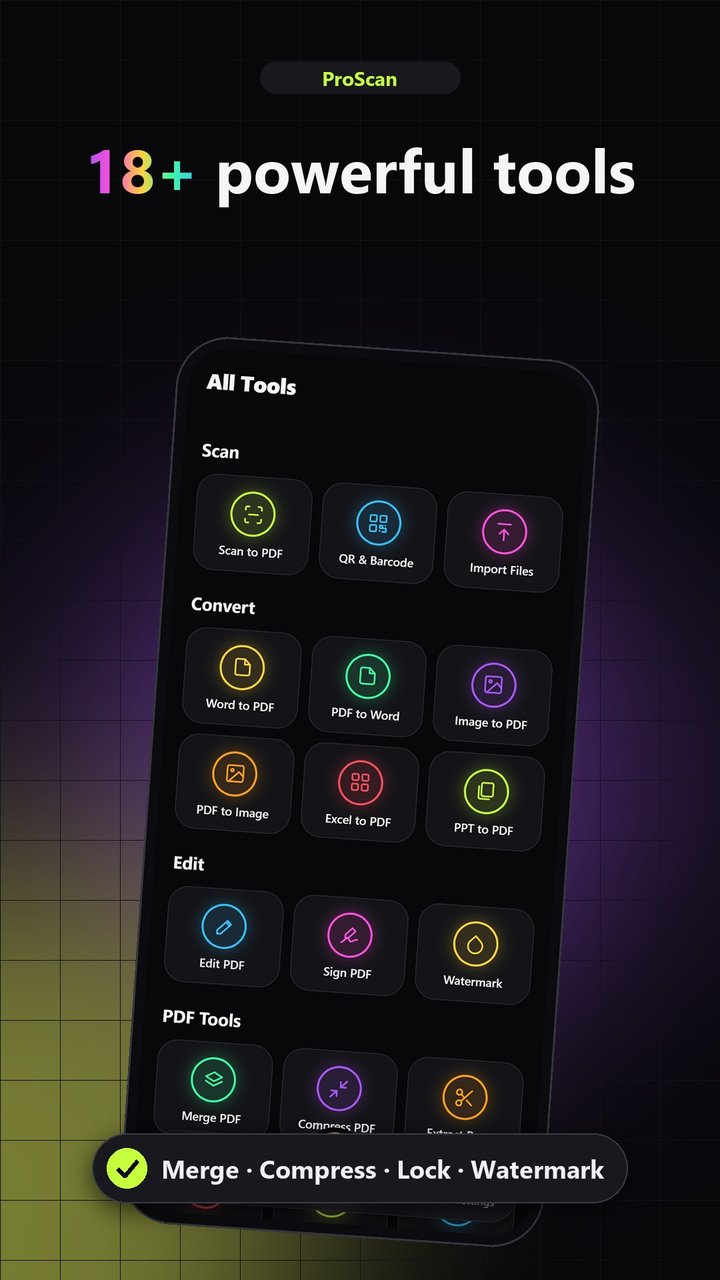
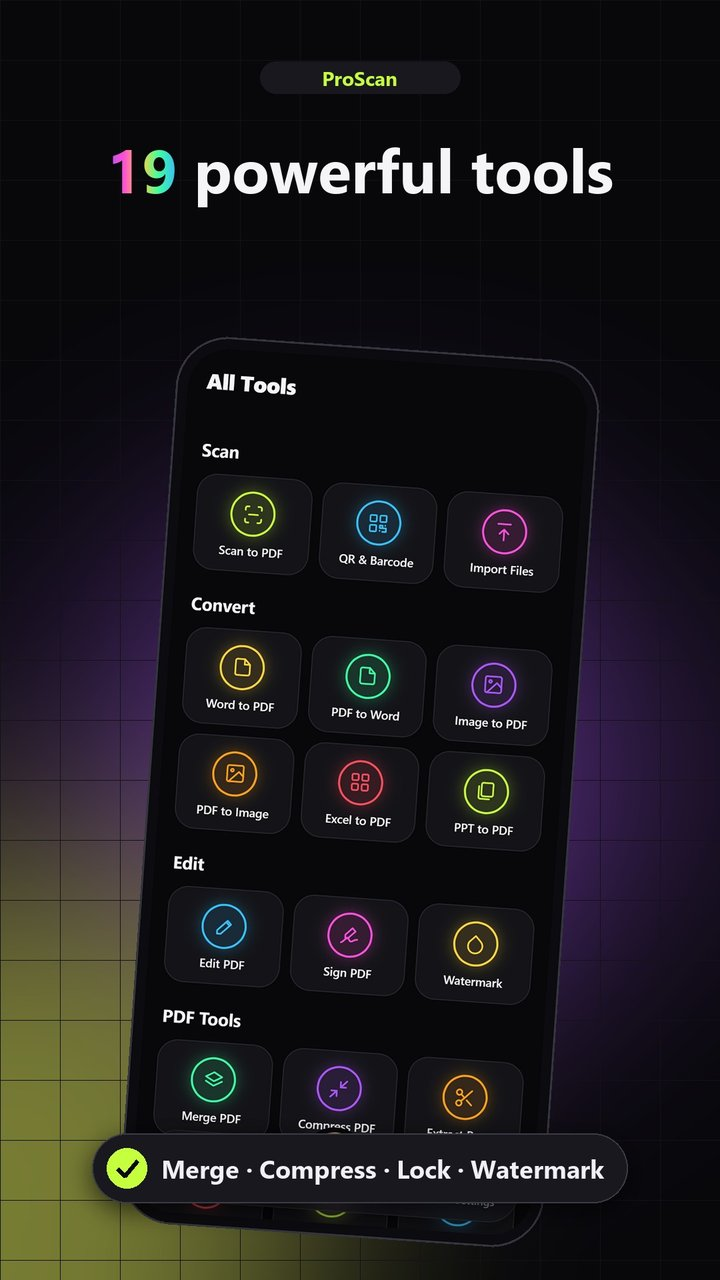
Show the exact tool count (19) instead of 18+

Changed region(s): [[0.1222, 0.0938, 0.8861, 0.1562]]

diff --git a/docs/index.html b/docs/index.html
@@ -138,9 +138,9 @@
   </div>
 </div>
 <div class="wrap stats">
-  <div class="stat"><b>18+</b><span>Tools in one app</span><div class="bar"><i style="width:90%"></i></div></div>
+  <div class="stat"><b>19</b><span>Tools in one app</span><div class="bar"><i style="width:95%"></i></div></div>
   <div class="stat"><b>0</b><span>Uploads — 100% on-device</span><div class="bar"><i style="width:100%"></i></div></div>
-  <div class="stat"><b>6</b><span>Formats converted</span><div class="bar"><i style="width:70%"></i></div></div>
+  <div class="stat"><b>6</b><span>Conversions</span><div class="bar"><i style="width:70%"></i></div></div>
   <div class="stat"><b>4.8 MB</b><span>Download size</span><div class="bar"><i style="width:35%"></i></div></div>
 </div>
 </header>
@@ -175,7 +175,7 @@
     <figure><img src="img/cards/02_enhance.jpg" alt="Crystal-clear scans" loading="lazy"></figure>
     <figure><img src="img/cards/03_sign.jpg" alt="Sign anywhere" loading="lazy"></figure>
     <figure><img src="img/cards/04_convert.jpg" alt="Office to PDF" loading="lazy"></figure>
-    <figure><img src="img/cards/05_tools.jpg" alt="18+ tools" loading="lazy"></figure>
+    <figure><img src="img/cards/05_tools.jpg" alt="19 powerful tools" loading="lazy"></figure>
     <figure><img src="img/cards/06_qr.jpg" alt="QR & barcodes" loading="lazy"></figure>
     <figure><img src="img/cards/07_home.jpg" alt="Organized" loading="lazy"></figure>
     <figure><img src="img/cards/08_about.jpg" alt="Private by design" loading="lazy"></figure>
